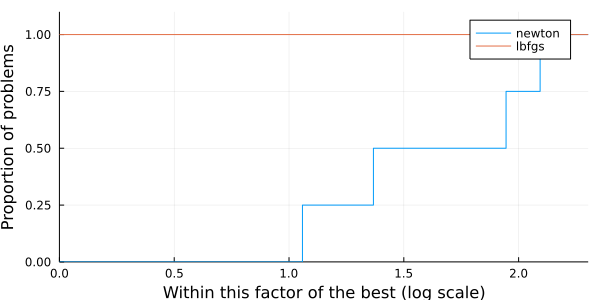
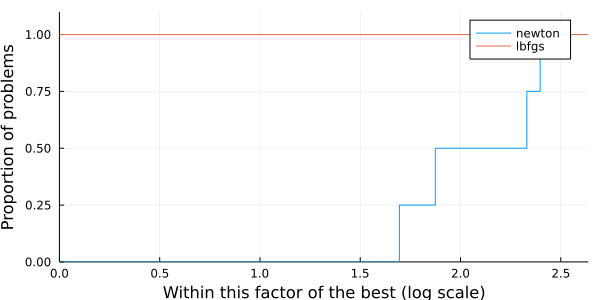
Deploying to gh-pages from  @ 0ae1b8156bb8d80a00eceb829ff18bfe75a243d0 🚀

diff --git a/pages/tutorials/creating-a-jso-compliant-solver/index.html b/pages/tutorials/creating-a-jso-compliant-solver/index.html
@@ -1,4 +1,4 @@
-<!doctype html> <html lang=en > <meta charset=UTF-8 > <meta name=viewport  content="width=device-width, initial-scale=1"> <link rel=stylesheet  href="/libs/katex/katex.min.css"> <link rel=stylesheet  href="/libs/highlight/github.min.css"> <link rel=stylesheet  href="/css/franklin.css"> <link rel=stylesheet  href="/css/poole_hyde.css"> <style> html {font-size: 17px;} .franklin-content {position: relative; padding-left: 8%; padding-right: 5%; line-height: 1.35em;} @media (min-width: 940px) { .franklin-content {width: 100%; margin-left: auto; margin-right: auto;} } @media (max-width: 768px) { .franklin-content {padding-left: 6%; padding-right: 6%;} } </style> <link rel=icon  href="/assets/favicon.png"> <title>Creating a JSO-compliant solver</title> <link rel=stylesheet  href="/css/custom.css"> <link rel=preconnect  href="https://fonts.gstatic.com"> <link href="https://fonts.googleapis.com/css2?family=Nunito&family=Montserrat&display=swap" rel=stylesheet > <script src="/libs/highlight/highlight.pack.js"></script> <!--TODO: Add EVERYTHING-->> <script> hljs.getLanguage('julia').keywords.custom = 'obj grad hess AbstractNLPModel'; </script>" <div class=sidebar > <div class="container sidebar-sticky"> <div class=sidebar-about > <img src="/assets/jso.png"> <h1><a href="/">JSO</a></h1> <p class=lead >Julia Smooth Optimizers.</p> </div> <nav class=sidebar-nav > <a class="sidebar-nav-item " href="/">Home</a> <a class="sidebar-nav-item " href="/pages/tutorials/list/">Tutorials</a> <a class="sidebar-nav-item " href="/pages/ecosystem/list/">Ecosystems</a> <a class="sidebar-nav-item " href="/pages/how-to/list/">How-to guide</a> <a class="sidebar-nav-item " href="/pages/reference/list/">Reference guides</a> </nav> <p>&copy; Abel Soares Siqueira.</p> </div> </div> <div class="content container"> <div class=franklin-content ><h1 id=title ><a href="#title" class=header-anchor >Creating a JSO-compliant solver</a></h1> <div class=author >by Abel S. Siqueira and João Okimoto</div> <img class=badge  src="https://img.shields.io/badge/ADNLPModels-0.3.0-hsl(45,100%25,30%25)?style=flat-square&labelColor=hsl(45,30%25,30%25)"> <img class=badge  src="https://img.shields.io/badge/JSOSolvers-0.7.2-hsl(90,100%25,30%25)?style=flat-square&labelColor=hsl(90,30%25,30%25)"> <img class=badge  src="https://img.shields.io/badge/LinearAlgebra-stdlib-666?style=flat-square&labelColor=444"> <img class=badge  src="https://img.shields.io/badge/NLPModels-0.17.2-hsl(180,100%25,30%25)?style=flat-square&labelColor=hsl(180,30%25,30%25)"> <img class=badge  src="https://img.shields.io/badge/Plots-1.23.6-666?style=flat-square&labelColor=444"> <img class=badge  src="https://img.shields.io/badge/SolverBenchmark-0.4.7-hsl(315,100%25,30%25)?style=flat-square&labelColor=hsl(315,30%25,30%25)"> <img class=badge  src="https://img.shields.io/badge/SolverTools-0.7.0-hsl(360,100%25,30%25)?style=flat-square&labelColor=hsl(360,30%25,30%25)"> <p>In this tutorial you will learn what is a JSO-compliant solver, how to create one, and how to benchmark it against some other solver.</p> <div class=franklin-toc ><ol><li><a href="#what_is_a_jso-compliant_solver">What is a JSO-compliant solver</a><li><a href="#method_description">Method description</a><li><a href="#defining_a_test_problem_with_adnlpmodels_and_accessing_its_functions_with_the_nlpmodels_api">Defining a test problem with ADNLPModels and accessing its functions with the NLPModels API</a><li><a href="#improving_the_solver">Improving the solver</a><li><a href="#benchmarking">Benchmarking</a><li><a href="#performance_profiles">Performance profiles</a><li><a href="#improving_the_solver_more">Improving the solver more</a></ol></div> <h2 id=what_is_a_jso-compliant_solver ><a href="#what_is_a_jso-compliant_solver" class=header-anchor >What is a JSO-compliant solver</a></h2> <p>A JSO-compliant solver is a solver whose</p> <ul> <li><p>input is a model implementing the NLPModels API; and</p> <li><p>output is a specific struct from the package SolverCore.</p> </ul> <p>That means that you can devise your solver based on a single API that will work with many different problems. Furthermore, since the output type is known, we can provide tools to compare different solvers.</p> <p>To illustrate the procedure for creating a solver with the JSO API, we&#39;ll implement a Line-Search Modified Newton solver for the problem</p> \[ \min_x \ f(x) \] <h2 id=method_description ><a href="#method_description" class=header-anchor >Method description</a></h2> <p>The method consists of following the direction \(d_k\) that solves</p> \[ \nabla^2 f(x_k) d_k = -\nabla f(x_k) \] <p>This is only reasonable if the system can be solved and \(d_k\) is a descent direction. A sufficient condition for that is that \(\nabla^2 f(x_k)\) is positive definite, which is equivalent to saying that it has a Cholesky decomposition.</p> <p>Since this will not be true in general, the modified Newton method consists of computing \(\rho_k \geq 0\) such that \(\nabla^2 f(x_k) + \rho_k I\) is positive definite. One way to find such a \(\rho_k\) is given below</p> <pre><code class=language-julia >1. Start with ρ from the last iteration
+<!doctype html> <html lang=en > <meta charset=UTF-8 > <meta name=viewport  content="width=device-width, initial-scale=1"> <link rel=stylesheet  href="/libs/katex/katex.min.css"> <link rel=stylesheet  href="/libs/highlight/github.min.css"> <link rel=stylesheet  href="/css/franklin.css"> <link rel=stylesheet  href="/css/poole_hyde.css"> <style> html {font-size: 17px;} .franklin-content {position: relative; padding-left: 8%; padding-right: 5%; line-height: 1.35em;} @media (min-width: 940px) { .franklin-content {width: 100%; margin-left: auto; margin-right: auto;} } @media (max-width: 768px) { .franklin-content {padding-left: 6%; padding-right: 6%;} } </style> <link rel=icon  href="/assets/favicon.png"> <title>Creating a JSO-compliant solver</title> <link rel=stylesheet  href="/css/custom.css"> <link rel=preconnect  href="https://fonts.gstatic.com"> <link href="https://fonts.googleapis.com/css2?family=Nunito&family=Montserrat&display=swap" rel=stylesheet > <script src="/libs/highlight/highlight.pack.js"></script> <!--TODO: Add EVERYTHING-->> <script> hljs.getLanguage('julia').keywords.custom = 'obj grad hess AbstractNLPModel'; </script>" <div class=sidebar > <div class="container sidebar-sticky"> <div class=sidebar-about > <img src="/assets/jso.png"> <h1><a href="/">JSO</a></h1> <p class=lead >Julia Smooth Optimizers.</p> </div> <nav class=sidebar-nav > <a class="sidebar-nav-item " href="/">Home</a> <a class="sidebar-nav-item " href="/pages/tutorials/list/">Tutorials</a> <a class="sidebar-nav-item " href="/pages/ecosystem/list/">Ecosystems</a> <a class="sidebar-nav-item " href="/pages/how-to/list/">How-to guide</a> <a class="sidebar-nav-item " href="/pages/reference/list/">Reference guides</a> </nav> <p>&copy; Abel Soares Siqueira.</p> </div> </div> <div class="content container"> <div class=franklin-content ><h1 id=title ><a href="#title" class=header-anchor >Creating a JSO-compliant solver</a></h1> <div class=author >by Abel S. Siqueira and João Okimoto</div> <img class=badge  src="https://img.shields.io/badge/ADNLPModels-0.3.0-hsl(40,100%25,30%25)?style=flat-square&labelColor=hsl(40,30%25,30%25)"> <img class=badge  src="https://img.shields.io/badge/JSOSolvers-0.7.2-hsl(80,100%25,30%25)?style=flat-square&labelColor=hsl(80,30%25,30%25)"> <img class=badge  src="https://img.shields.io/badge/LinearAlgebra-stdlib-666?style=flat-square&labelColor=444"> <img class=badge  src="https://img.shields.io/badge/NLPModels-0.17.2-hsl(160,100%25,30%25)?style=flat-square&labelColor=hsl(160,30%25,30%25)"> <img class=badge  src="https://img.shields.io/badge/Plots-1.23.6-666?style=flat-square&labelColor=444"> <img class=badge  src="https://img.shields.io/badge/SolverBenchmark-0.4.7-hsl(280,100%25,30%25)?style=flat-square&labelColor=hsl(280,30%25,30%25)"> <img class=badge  src="https://img.shields.io/badge/SolverCore-0.2.1-hsl(320,100%25,30%25)?style=flat-square&labelColor=hsl(320,30%25,30%25)"> <p>In this tutorial you will learn what is a JSO-compliant solver, how to create one, and how to benchmark it against some other solver.</p> <div class=franklin-toc ><ol><li><a href="#what_is_a_jso-compliant_solver">What is a JSO-compliant solver</a><li><a href="#method_description">Method description</a><li><a href="#defining_a_test_problem_with_adnlpmodels_and_accessing_its_functions_with_the_nlpmodels_api">Defining a test problem with ADNLPModels and accessing its functions with the NLPModels API</a><li><a href="#improving_the_solver">Improving the solver</a><li><a href="#benchmarking">Benchmarking</a><li><a href="#performance_profiles">Performance profiles</a><li><a href="#improving_the_solver_more">Improving the solver more</a></ol></div> <h2 id=what_is_a_jso-compliant_solver ><a href="#what_is_a_jso-compliant_solver" class=header-anchor >What is a JSO-compliant solver</a></h2> <p>A JSO-compliant solver is a solver whose</p> <ul> <li><p>input is a model implementing the NLPModels API; and</p> <li><p>output is a specific struct from the package SolverCore.</p> </ul> <p>That means that you can devise your solver based on a single API that will work with many different problems. Furthermore, since the output type is known, we can provide tools to compare different solvers.</p> <p>To illustrate the procedure for creating a solver with the JSO API, we&#39;ll implement a Line-Search Modified Newton solver for the problem</p> \[ \min_x \ f(x) \] <h2 id=method_description ><a href="#method_description" class=header-anchor >Method description</a></h2> <p>The method consists of following the direction \(d_k\) that solves</p> \[ \nabla^2 f(x_k) d_k = -\nabla f(x_k) \] <p>This is only reasonable if the system can be solved and \(d_k\) is a descent direction. A sufficient condition for that is that \(\nabla^2 f(x_k)\) is positive definite, which is equivalent to saying that it has a Cholesky decomposition.</p> <p>Since this will not be true in general, the modified Newton method consists of computing \(\rho_k \geq 0\) such that \(\nabla^2 f(x_k) + \rho_k I\) is positive definite. One way to find such a \(\rho_k\) is given below</p> <pre><code class=language-julia >1. Start with ρ from the last iteration
 2. Try to compute the Cholesky factor of ∇²f&#40;x&#41; &#43; ρI
 3. If not successful, increase ρ to either 1e-8 or 10ρ, whichever is largest, and return to step 2
 4. Otherwise, continue the algorithm</code></pre> <p>Next, for the line-search part, we use backtracking and ask that the Armijo condition be satisfied, that is find the smallest \(p \in \mathbb{N}\) such that \(t = σ^p\) satisfies</p> \[ f(x_k + td_k) < f(x_k) + \alpha t g_k^T d_k, \] <p>for \(\alpha \in (0,1)\), called the Armijo parameter.</p> <h2 id=defining_a_test_problem_with_adnlpmodels_and_accessing_its_functions_with_the_nlpmodels_api ><a href="#defining_a_test_problem_with_adnlpmodels_and_accessing_its_functions_with_the_nlpmodels_api" class=header-anchor >Defining a test problem with ADNLPModels and accessing its functions with the NLPModels API</a></h2> <p>Let&#39;s define a test problem to verify that our method is working, and let&#39;s use a classic one: Rosenbrock&#39;s function<sup id="fnref:1"><a href="#fndef:1" class=fnref >[1]</a></sup></p> \[ \min_x \ (x_1 - 1)^2 + 4 (x_2 - x_1^2)^2, \] <p>starting from point &#91;-1.2; 1.0&#93;.</p> <pre><code class=language-julia >using Plots
@@ -244,7 +244,7 @@ print&#40;output&#41;</code></pre><pre><code class="plaintext code-output">Gener
   dual feasibility: 4.018046284781729e-9
   solution: [0.9999999986742657  0.9999999970013461]
   iterations: 18
-  elapsed time: 0.9098260402679443
+  elapsed time: 0.7611420154571533
 </code></pre>
 <p>And to compare both solvers, we need a collection of problems. Let&#39;s just create one manually for now.</p>
 <pre><code class=language-julia >problems &#61; &#91;
@@ -262,18 +262,18 @@ stats &#61; bmark_solvers&#40;solvers, problems&#41;</code></pre><pre><code clas
  Row │ id     name     nvar   ncon   nequ   status       objective     elapsed_time  iter   dual_feas  primal_feas  neval_obj  neval_grad  neval_cons  neval_jcon  neval_jgrad  neval_jac  neval_jprod  neval_jtprod  neval_hess  neval_hprod  neval_jhess  neval_jhprod  neval_residual  neval_jac_residual  neval_jprod_residual  neval_jtprod_residual  neval_hess_residual  neval_jhess_residual  neval_hprod_residual  extrainfo
      │ Int64  String   Int64  Int64  Int64  Symbol       Float64       Float64       Int64  Float64    Float64      Int64      Int64       Int64       Int64       Int64        Int64      Int64        Int64         Int64       Int64        Int64        Int64         Int64           Int64               Int64                 Int64                  Int64                Int64                 Int64                 String
 ─────┼────────────────────────────────────────────────────────────────────────────────────────────────────────────────────────────────────────────────────────────────────────────────────────────────────────────────────────────────────────────────────────────────────────────────────────────────────────────────────────────────────────────────────────────────────────────────────────────────────────────────────────────────
-   1 │     1  Generic      2      0      0  first_order   2.46519e-31      0.727858      1        Inf          0.0          3           4           0           0            0          0            0             0           1            0            0             0               0                   0                     0                      0                    0                     0                     0
-   2 │     2  Generic      2      0      0  first_order   3.74398e-21      0.812437     21        Inf          0.0         50          64           0           0            0          0            0             0          21            0            0             0               0                   0                     0                      0                    0                     0                     0
-   3 │     3  Generic      2      0      0  max_iter     -8.36356          0.712777    100        Inf          0.0        201         301           0           0            0          0            0             0         100            0            0             0               0                   0                     0                      0                    0                     0                     0
-   4 │     4  Generic      2      0      0  first_order   1.43195          0.677697      5        Inf          0.0         12          16           0           0            0          0            0             0           5            0            0             0               0                   0                     0                      0                    0                     0                     0
+   1 │     1  Generic      2      0      0  first_order   2.46519e-31      0.615157      1        Inf          0.0          3           4           0           0            0          0            0             0           1            0            0             0               0                   0                     0                      0                    0                     0                     0
+   2 │     2  Generic      2      0      0  first_order   3.74398e-21      0.722685     21        Inf          0.0         50          64           0           0            0          0            0             0          21            0            0             0               0                   0                     0                      0                    0                     0                     0
+   3 │     3  Generic      2      0      0  max_iter     -8.36356          0.573144    100        Inf          0.0        201         301           0           0            0          0            0             0         100            0            0             0               0                   0                     0                      0                    0                     0                     0
+   4 │     4  Generic      2      0      0  first_order   1.43195          0.615947      5        Inf          0.0         12          16           0           0            0          0            0             0           5            0            0             0               0                   0                     0                      0                    0                     0                     0
   :lbfgs => 4×31 DataFrame
  Row │ id     name     nvar   ncon   nequ   status       objective     elapsed_time  iter   dual_feas   primal_feas  neval_obj  neval_grad  neval_cons  neval_jcon  neval_jgrad  neval_jac  neval_jprod  neval_jtprod  neval_hess  neval_hprod  neval_jhess  neval_jhprod  neval_residual  neval_jac_residual  neval_jprod_residual  neval_jtprod_residual  neval_hess_residual  neval_jhess_residual  neval_hprod_residual  extrainfo
      │ Int64  String   Int64  Int64  Int64  Symbol       Float64       Float64       Int64  Float64     Float64      Int64      Int64       Int64       Int64       Int64        Int64      Int64        Int64         Int64       Int64        Int64        Int64         Int64           Int64               Int64                 Int64                  Int64                Int64                 Int64                 String
 ─────┼─────────────────────────────────────────────────────────────────────────────────────────────────────────────────────────────────────────────────────────────────────────────────────────────────────────────────────────────────────────────────────────────────────────────────────────────────────────────────────────────────────────────────────────────────────────────────────────────────────────────────────────────────
-   1 │     1  Generic      2      0      0  first_order   2.26824e-16   4.91142e-5       8  5.28297e-8          0.0         11          10           0           0            0          0            0             0           0            0            0             0               0                   0                     0                      0                    0                     0                     0
-   2 │     2  Generic      2      0      0  first_order   1.44561e-17   0.000159025     39  8.41132e-8          0.0         52          45           0           0            0          0            0             0           0            0            0             0               0                   0                     0                      0                    0                     0                     0
-   3 │     3  Generic      2      0      0  first_order  -8.37235       4.1008e-5       12  1.60958e-9          0.0         17          15           0           0            0          0            0             0           0            0            0             0               0                   0                     0                      0                    0                     0                     0
-   4 │     4  Generic      2      0      0  first_order   1.43195       3.48091e-5       9  4.18646e-9          0.0         11          11           0           0            0          0            0             0           0            0            0             0               0                   0                     0                      0                    0                     0                     0</code></pre>
+   1 │     1  Generic      2      0      0  first_order   2.26824e-16    3.98159e-5      8  5.28297e-8          0.0         11          10           0           0            0          0            0             0           0            0            0             0               0                   0                     0                      0                    0                     0                     0
+   2 │     2  Generic      2      0      0  first_order   1.44561e-17    7.70092e-5     39  8.41132e-8          0.0         52          45           0           0            0          0            0             0           0            0            0             0               0                   0                     0                      0                    0                     0                     0
+   3 │     3  Generic      2      0      0  first_order  -8.37235        3.09944e-5     12  1.60958e-9          0.0         17          15           0           0            0          0            0             0           0            0            0             0               0                   0                     0                      0                    0                     0                     0
+   4 │     4  Generic      2      0      0  first_order   1.43195        2.90871e-5      9  4.18646e-9          0.0         11          11           0           0            0          0            0             0           0            0            0             0               0                   0                     0                      0                    0                     0                     0</code></pre>
 <p>The results is a Dictionary of Symbols to DataFrame tables.</p>
 <pre><code class=language-julia >@show typeof&#40;stats&#41;
 @show keys&#40;stats&#41;</code></pre><pre><code class="plaintext code-output">typeof(stats) = Dict{Symbol, DataFrames.DataFrame}
@@ -284,10 +284,10 @@ keys(stats) = [:newton, :lbfgs]
 pretty_stats&#40;stats&#91;:newton&#93;&#91;&#33;, cols&#93;&#41;</code></pre><pre><code class="plaintext code-output">┌─────────┬─────────────┬───────────┬──────────────┬────────┐
 │    name │      status │ objective │ elapsed_time │   iter │
 ├─────────┼─────────────┼───────────┼──────────────┼────────┤
-│ Generic │ first_order │  2.47e-31 │     7.28e-01 │      1 │
-│ Generic │ first_order │  3.74e-21 │     8.12e-01 │     21 │
-│ Generic │    max_iter │ -8.36e+00 │     7.13e-01 │    100 │
-│ Generic │ first_order │  1.43e+00 │     6.78e-01 │      5 │
+│ Generic │ first_order │  2.47e-31 │     6.15e-01 │      1 │
+│ Generic │ first_order │  3.74e-21 │     7.23e-01 │     21 │
+│ Generic │    max_iter │ -8.36e+00 │     5.73e-01 │    100 │
+│ Generic │ first_order │  1.43e+00 │     6.16e-01 │      5 │
 └─────────┴─────────────┴───────────┴──────────────┴────────┘
 </code></pre>
 <p>We can also create a similar table in .tex format, using something like</p>

diff --git a/pages/tutorials/introduction-to-linear-operators/index.html b/pages/tutorials/introduction-to-linear-operators/index.html
@@ -1,4 +1,4 @@
-<!doctype html> <html lang=en > <meta charset=UTF-8 > <meta name=viewport  content="width=device-width, initial-scale=1"> <link rel=stylesheet  href="/libs/highlight/github.min.css"> <link rel=stylesheet  href="/css/franklin.css"> <link rel=stylesheet  href="/css/poole_hyde.css"> <style> html {font-size: 17px;} .franklin-content {position: relative; padding-left: 8%; padding-right: 5%; line-height: 1.35em;} @media (min-width: 940px) { .franklin-content {width: 100%; margin-left: auto; margin-right: auto;} } @media (max-width: 768px) { .franklin-content {padding-left: 6%; padding-right: 6%;} } </style> <link rel=icon  href="/assets/favicon.png"> <title>Introduction to Linear Operators</title> <link rel=stylesheet  href="/css/custom.css"> <link rel=preconnect  href="https://fonts.gstatic.com"> <link href="https://fonts.googleapis.com/css2?family=Nunito&family=Montserrat&display=swap" rel=stylesheet > <script src="/libs/highlight/highlight.pack.js"></script> <!--TODO: Add EVERYTHING-->> <script> hljs.getLanguage('julia').keywords.custom = 'obj grad hess AbstractNLPModel'; </script>" <div class=sidebar > <div class="container sidebar-sticky"> <div class=sidebar-about > <img src="/assets/jso.png"> <h1><a href="/">JSO</a></h1> <p class=lead >Julia Smooth Optimizers.</p> </div> <nav class=sidebar-nav > <a class="sidebar-nav-item " href="/">Home</a> <a class="sidebar-nav-item " href="/pages/tutorials/list/">Tutorials</a> <a class="sidebar-nav-item " href="/pages/ecosystem/list/">Ecosystems</a> <a class="sidebar-nav-item " href="/pages/how-to/list/">How-to guide</a> <a class="sidebar-nav-item " href="/pages/reference/list/">Reference guides</a> </nav> <p>&copy; Abel Soares Siqueira.</p> </div> </div> <div class="content container"> <div class=franklin-content ><h1 id=title ><a href="#title" class=header-anchor >Introduction to Linear Operators</a></h1> <div class=author >by Geoffroy Leconte and Dominique Orban</div> <img class=badge  src="https://img.shields.io/badge/LinearOperators-2.2.1-hsl(135,100%25,30%25)?style=flat-square&labelColor=hsl(135,30%25,30%25)"> <img class=badge  src="https://img.shields.io/badge/FFTW-1.4.5-666?style=flat-square&labelColor=444"> <p>LinearOperators.jl is a package for matrix-like operators. Linear operators are defined by how they act on a vector, which is useful in a variety of situations where you don&#39;t want to materialize the matrix.</p> <div class=franklin-toc ><ol><li><a href="#using_matrices">Using matrices</a><li><a href="#inverse">Inverse</a><li><a href="#mul">mul&#33;</a><li><a href="#using_functions">Using functions</a><li><a href="#limited_memory_bfgs_and_sr1">Limited memory BFGS and SR1</a><li><a href="#restriction_extension_and_slices">Restriction, extension and slices</a></ol></div> <p>This section of the documentation describes a few uses of LinearOperators.</p> <h2 id=using_matrices ><a href="#using_matrices" class=header-anchor >Using matrices</a></h2> <p>Operators may be defined from matrices and combined using the usual operations, but the result is deferred until the operator is applied.</p> <pre><code class=language-julia >using LinearOperators, SparseArrays
+<!doctype html> <html lang=en > <meta charset=UTF-8 > <meta name=viewport  content="width=device-width, initial-scale=1"> <link rel=stylesheet  href="/libs/highlight/github.min.css"> <link rel=stylesheet  href="/css/franklin.css"> <link rel=stylesheet  href="/css/poole_hyde.css"> <style> html {font-size: 17px;} .franklin-content {position: relative; padding-left: 8%; padding-right: 5%; line-height: 1.35em;} @media (min-width: 940px) { .franklin-content {width: 100%; margin-left: auto; margin-right: auto;} } @media (max-width: 768px) { .franklin-content {padding-left: 6%; padding-right: 6%;} } </style> <link rel=icon  href="/assets/favicon.png"> <title>Introduction to Linear Operators</title> <link rel=stylesheet  href="/css/custom.css"> <link rel=preconnect  href="https://fonts.gstatic.com"> <link href="https://fonts.googleapis.com/css2?family=Nunito&family=Montserrat&display=swap" rel=stylesheet > <script src="/libs/highlight/highlight.pack.js"></script> <!--TODO: Add EVERYTHING-->> <script> hljs.getLanguage('julia').keywords.custom = 'obj grad hess AbstractNLPModel'; </script>" <div class=sidebar > <div class="container sidebar-sticky"> <div class=sidebar-about > <img src="/assets/jso.png"> <h1><a href="/">JSO</a></h1> <p class=lead >Julia Smooth Optimizers.</p> </div> <nav class=sidebar-nav > <a class="sidebar-nav-item " href="/">Home</a> <a class="sidebar-nav-item " href="/pages/tutorials/list/">Tutorials</a> <a class="sidebar-nav-item " href="/pages/ecosystem/list/">Ecosystems</a> <a class="sidebar-nav-item " href="/pages/how-to/list/">How-to guide</a> <a class="sidebar-nav-item " href="/pages/reference/list/">Reference guides</a> </nav> <p>&copy; Abel Soares Siqueira.</p> </div> </div> <div class="content container"> <div class=franklin-content ><h1 id=title ><a href="#title" class=header-anchor >Introduction to Linear Operators</a></h1> <div class=author >by Geoffroy Leconte and Dominique Orban</div> <img class=badge  src="https://img.shields.io/badge/LinearOperators-2.2.1-hsl(120,100%25,30%25)?style=flat-square&labelColor=hsl(120,30%25,30%25)"> <img class=badge  src="https://img.shields.io/badge/FFTW-1.4.5-666?style=flat-square&labelColor=444"> <p>LinearOperators.jl is a package for matrix-like operators. Linear operators are defined by how they act on a vector, which is useful in a variety of situations where you don&#39;t want to materialize the matrix.</p> <div class=franklin-toc ><ol><li><a href="#using_matrices">Using matrices</a><li><a href="#inverse">Inverse</a><li><a href="#mul">mul&#33;</a><li><a href="#using_functions">Using functions</a><li><a href="#limited_memory_bfgs_and_sr1">Limited memory BFGS and SR1</a><li><a href="#restriction_extension_and_slices">Restriction, extension and slices</a></ol></div> <p>This section of the documentation describes a few uses of LinearOperators.</p> <h2 id=using_matrices ><a href="#using_matrices" class=header-anchor >Using matrices</a></h2> <p>Operators may be defined from matrices and combined using the usual operations, but the result is deferred until the operator is applied.</p> <pre><code class=language-julia >using LinearOperators, SparseArrays
 A1 &#61; rand&#40;5,7&#41;
 A2 &#61; sprand&#40;7,3,.3&#41;
 op1 &#61; LinearOperator&#40;A1&#41;
@@ -6,16 +6,16 @@ op2 &#61; LinearOperator&#40;A2&#41;
 op &#61; op1 * op2  # Does not form A1 * A2
 x &#61; rand&#40;3&#41;
 y &#61; op * x</code></pre><pre><code class="plaintext code-output">5-element Vector{Float64}:
- 0.871167072599535
- 0.8901484205165
- 1.3910211042223377
- 0.9979144479069595
- 0.9364433168754716</code></pre> <h2 id=inverse ><a href="#inverse" class=header-anchor >Inverse</a></h2> <p>Operators may be defined to represent &#40;approximate&#41; inverses.</p> <pre><code class=language-julia >using LinearAlgebra
+ 1.6793043074031042
+ 1.0898723370142327
+ 1.4050404114827229
+ 1.3301594094328804
+ 1.2813020532213628</code></pre> <h2 id=inverse ><a href="#inverse" class=header-anchor >Inverse</a></h2> <p>Operators may be defined to represent &#40;approximate&#41; inverses.</p> <pre><code class=language-julia >using LinearAlgebra
 A &#61; rand&#40;5,5&#41;
 A &#61; A&#39; * A
 op &#61; opCholesky&#40;A&#41;  # Use, e.g., as a preconditioner
 v &#61; rand&#40;5&#41;
-norm&#40;A \ v - op * v&#41; / norm&#40;v&#41;</code></pre><pre><code class="plaintext code-output">3.2144453942389933e-7</code></pre>
+norm&#40;A \ v - op * v&#41; / norm&#40;v&#41;</code></pre><pre><code class="plaintext code-output">2.0590508886381993e-15</code></pre>
 <p>In this example, the Cholesky factor is computed only once and can be used many times transparently.</p>
 <h2 id=mul ><a href="#mul" class=header-anchor >mul&#33;</a></h2>
 <p>It is often useful to reuse the memory used by the operator. For that reason, we can use <code>mul&#33;</code> on operators as if we were using matrices using preallocated vectors:</p>
@@ -58,18 +58,18 @@ dft &#61; LinearOperator&#40;ComplexF64, 10, 10, false, false,
                      mulifft&#33;&#41;
 x &#61; rand&#40;10&#41;
 y &#61; dft * x
-norm&#40;dft&#39; * y - x&#41;  # DFT is a unitary operator</code></pre><pre><code class="plaintext code-output">1.942890293094024e-16</code></pre>
+norm&#40;dft&#39; * y - x&#41;  # DFT is a unitary operator</code></pre><pre><code class="plaintext code-output">2.118352371637509e-16</code></pre>
 <pre><code class=language-julia >transpose&#40;dft&#41; * y</code></pre><pre><code class="plaintext code-output">10-element Vector{ComplexF64}:
-  0.7972965709338936 - 0.0im
-   0.504382666693366 - 0.0im
-  0.1504179483083505 - 0.0im
-  0.4605288259951375 - 0.0im
-  0.5418965119772459 - 0.0im
-  0.5526237014060765 - 0.0im
-  0.2555388460721247 - 0.0im
- 0.28120911699740053 - 0.0im
- 0.08746599791088089 - 0.0im
-  0.2963318718463641 - 0.0im</code></pre>
+  0.8933418604127361 - 0.0im
+  0.9871118242428795 - 0.0im
+  0.7852010327231251 - 0.0im
+ 0.12464836730203138 - 0.0im
+ 0.07646519486038028 - 0.0im
+  0.6454702686897825 - 0.0im
+  0.7960179418839683 - 0.0im
+ 0.04693355645229687 - 0.0im
+   0.566166915646402 - 0.0im
+  0.6703815407184702 - 0.0im</code></pre>
 <p>Another example:</p>
 <pre><code class=language-julia >function customfunc&#33;&#40;res, v, α, β::T&#41; where T
   if β &#61;&#61; zero&#40;T&#41;
@@ -127,7 +127,7 @@ for i &#61; 1:100
   push&#33;&#40;H, s, y&#41;
   r &#43;&#61; norm&#40;B * H * s - s&#41;
 end
-r</code></pre><pre><code class="plaintext code-output">4.1263680634807505e-13</code></pre>
+r</code></pre><pre><code class="plaintext code-output">3.790802094658292e-13</code></pre>
 <p>There is also a LSR1 operator that behaves similarly to these two.</p>
 <h2 id=restriction_extension_and_slices ><a href="#restriction_extension_and_slices" class=header-anchor >Restriction, extension and slices</a></h2>
 <p>The restriction operator restricts a vector to a set of indices.</p>
@@ -155,24 +155,24 @@ opA &#61; LinearOperator&#40;A&#41;
 I &#61; &#91;1;3;5&#93;
 J &#61; 2:4
 A&#91;I,J&#93; * ones&#40;3&#41;</code></pre><pre><code class="plaintext code-output">3-element Vector{Float64}:
- 1.8658857182425148
- 1.2857585934005564
- 1.7589158199051194</code></pre>
+ 1.5531438968793496
+ 2.298644753910843
+ 2.083551713231354</code></pre>
 <pre><code class=language-julia >opRestriction&#40;I, 5&#41; * opA * opExtension&#40;J, 5&#41; * ones&#40;3&#41;</code></pre><pre><code class="plaintext code-output">3-element Vector{Float64}:
- 1.8658857182425148
- 1.2857585934005564
- 1.7589158199051194</code></pre>
+ 1.5531438968793496
+ 2.298644753910843
+ 2.083551713231354</code></pre>
 <p>A main difference with matrices, is that slices <strong>do not</strong> return vectors nor numbers.</p>
 <pre><code class=language-julia >opA&#91;1,:&#93; * ones&#40;5&#41;</code></pre><pre><code class="plaintext code-output">1-element Vector{Float64}:
- 3.5626984409793456</code></pre>
+ 1.8659463710488944</code></pre>
 <pre><code class=language-julia >opA&#91;:,1&#93; * ones&#40;1&#41;</code></pre><pre><code class="plaintext code-output">5-element Vector{Float64}:
- 0.7909200865583672
- 0.7879609660684586
- 0.8651120571991051
- 0.11637497406748443
- 0.7098589753460351</code></pre>
+ 0.16691906457025496
+ 0.008864555958078668
+ 0.7903826406968408
+ 0.32111053721568683
+ 0.6985505553402169</code></pre>
 <pre><code class=language-julia >opA&#91;1,1&#93; * ones&#40;1&#41;</code></pre><pre><code class="plaintext code-output">1-element Vector{Float64}:
- 0.7909200865583672</code></pre>
+ 0.16691906457025496</code></pre>
 
 <div class=page-foot >
   <div class=copyright >

diff --git a/pages/how-to/solve-an-optimization-problem-with-ipopt/index.html b/pages/how-to/solve-an-optimization-problem-with-ipopt/index.html
@@ -1,4 +1,4 @@
-<!doctype html> <html lang=en > <meta charset=UTF-8 > <meta name=viewport  content="width=device-width, initial-scale=1"> <link rel=stylesheet  href="/libs/katex/katex.min.css"> <link rel=stylesheet  href="/libs/highlight/github.min.css"> <link rel=stylesheet  href="/css/franklin.css"> <link rel=stylesheet  href="/css/poole_hyde.css"> <style> html {font-size: 17px;} .franklin-content {position: relative; padding-left: 8%; padding-right: 5%; line-height: 1.35em;} @media (min-width: 940px) { .franklin-content {width: 100%; margin-left: auto; margin-right: auto;} } @media (max-width: 768px) { .franklin-content {padding-left: 6%; padding-right: 6%;} } </style> <link rel=icon  href="/assets/favicon.png"> <title>How to solve a small optimization problem with Ipopt + NLPModels</title> <link rel=stylesheet  href="/css/custom.css"> <link rel=preconnect  href="https://fonts.gstatic.com"> <link href="https://fonts.googleapis.com/css2?family=Nunito&family=Montserrat&display=swap" rel=stylesheet > <script src="/libs/highlight/highlight.pack.js"></script> <!--TODO: Add EVERYTHING-->> <script> hljs.getLanguage('julia').keywords.custom = 'obj grad hess AbstractNLPModel'; </script>" <div class=sidebar > <div class="container sidebar-sticky"> <div class=sidebar-about > <img src="/assets/jso.png"> <h1><a href="/">JSO</a></h1> <p class=lead >Julia Smooth Optimizers.</p> </div> <nav class=sidebar-nav > <a class="sidebar-nav-item " href="/">Home</a> <a class="sidebar-nav-item " href="/pages/tutorials/list/">Tutorials</a> <a class="sidebar-nav-item " href="/pages/ecosystem/list/">Ecosystems</a> <a class="sidebar-nav-item " href="/pages/how-to/list/">How-to guide</a> <a class="sidebar-nav-item " href="/pages/reference/list/">Reference guides</a> </nav> <p>&copy; Abel Soares Siqueira.</p> </div> </div> <div class="content container"> <div class=franklin-content ><h1 id=title ><a href="#title" class=header-anchor >How to solve a small optimization problem with Ipopt + NLPModels</a></h1> <div class=author >by Abel S. Siqueira</div> <img class=badge  src="https://img.shields.io/badge/ADNLPModels-0.3.0-hsl(45,100%25,30%25)?style=flat-square&labelColor=hsl(45,30%25,30%25)"> <img class=badge  src="https://img.shields.io/badge/NLPModelsIpopt-0.7.2-hsl(225,100%25,30%25)?style=flat-square&labelColor=hsl(225,30%25,30%25)"> <img class=badge  src="https://img.shields.io/badge/NLPModelsJuMP-0.8.3-hsl(270,100%25,30%25)?style=flat-square&labelColor=hsl(270,30%25,30%25)"> <p>To solve an optimization problem with Ipopt, the first thing to do is define your problem. In this example, let&#39;s assume we want to solve the following problem:</p> \[\begin{aligned} \text{min}_x \quad & (x_1 - 1)^2 + 4 (x_2 - x_1)^2 \\ \text{s.to} \quad & x_1^2 + x_2^2 \leq 1 \\ & x_1 \leq 0.5 \\ & 0.25 \leq x_2 \leq 0.75 \end{aligned}\] <p>Since our problem is simple, ADNLPModels is a perfect choice. It defines an model that uses automatic differentiation. It is just a matter of passing your functions and arrays to the constructor <code>ADNLPModel</code>.</p> <pre><code class=language-julia >using ADNLPModels
+<!doctype html> <html lang=en > <meta charset=UTF-8 > <meta name=viewport  content="width=device-width, initial-scale=1"> <link rel=stylesheet  href="/libs/katex/katex.min.css"> <link rel=stylesheet  href="/libs/highlight/github.min.css"> <link rel=stylesheet  href="/css/franklin.css"> <link rel=stylesheet  href="/css/poole_hyde.css"> <style> html {font-size: 17px;} .franklin-content {position: relative; padding-left: 8%; padding-right: 5%; line-height: 1.35em;} @media (min-width: 940px) { .franklin-content {width: 100%; margin-left: auto; margin-right: auto;} } @media (max-width: 768px) { .franklin-content {padding-left: 6%; padding-right: 6%;} } </style> <link rel=icon  href="/assets/favicon.png"> <title>How to solve a small optimization problem with Ipopt + NLPModels</title> <link rel=stylesheet  href="/css/custom.css"> <link rel=preconnect  href="https://fonts.gstatic.com"> <link href="https://fonts.googleapis.com/css2?family=Nunito&family=Montserrat&display=swap" rel=stylesheet > <script src="/libs/highlight/highlight.pack.js"></script> <!--TODO: Add EVERYTHING-->> <script> hljs.getLanguage('julia').keywords.custom = 'obj grad hess AbstractNLPModel'; </script>" <div class=sidebar > <div class="container sidebar-sticky"> <div class=sidebar-about > <img src="/assets/jso.png"> <h1><a href="/">JSO</a></h1> <p class=lead >Julia Smooth Optimizers.</p> </div> <nav class=sidebar-nav > <a class="sidebar-nav-item " href="/">Home</a> <a class="sidebar-nav-item " href="/pages/tutorials/list/">Tutorials</a> <a class="sidebar-nav-item " href="/pages/ecosystem/list/">Ecosystems</a> <a class="sidebar-nav-item " href="/pages/how-to/list/">How-to guide</a> <a class="sidebar-nav-item " href="/pages/reference/list/">Reference guides</a> </nav> <p>&copy; Abel Soares Siqueira.</p> </div> </div> <div class="content container"> <div class=franklin-content ><h1 id=title ><a href="#title" class=header-anchor >How to solve a small optimization problem with Ipopt + NLPModels</a></h1> <div class=author >by Abel S. Siqueira</div> <img class=badge  src="https://img.shields.io/badge/ADNLPModels-0.3.0-hsl(40,100%25,30%25)?style=flat-square&labelColor=hsl(40,30%25,30%25)"> <img class=badge  src="https://img.shields.io/badge/NLPModelsIpopt-0.7.2-hsl(200,100%25,30%25)?style=flat-square&labelColor=hsl(200,30%25,30%25)"> <img class=badge  src="https://img.shields.io/badge/NLPModelsJuMP-0.8.3-hsl(240,100%25,30%25)?style=flat-square&labelColor=hsl(240,30%25,30%25)"> <p>To solve an optimization problem with Ipopt, the first thing to do is define your problem. In this example, let&#39;s assume we want to solve the following problem:</p> \[\begin{aligned} \text{min}_x \quad & (x_1 - 1)^2 + 4 (x_2 - x_1)^2 \\ \text{s.to} \quad & x_1^2 + x_2^2 \leq 1 \\ & x_1 \leq 0.5 \\ & 0.25 \leq x_2 \leq 0.75 \end{aligned}\] <p>Since our problem is simple, ADNLPModels is a perfect choice. It defines an model that uses automatic differentiation. It is just a matter of passing your functions and arrays to the constructor <code>ADNLPModel</code>.</p> <pre><code class=language-julia >using ADNLPModels
 
 nlp &#61; ADNLPModel&#40;
   x -&gt; &#40;x&#91;1&#93; - 1&#41;^2 &#43; 4 * &#40;x&#91;2&#93; - x&#91;1&#93;^2&#41;, # f&#40;x&#41;
@@ -79,8 +79,8 @@ Number of inequality constraint evaluations          = 8
 Number of equality constraint Jacobian evaluations   = 0
 Number of inequality constraint Jacobian evaluations = 8
 Number of Lagrangian Hessian evaluations             = 7
-Total CPU secs in IPOPT (w/o function evaluations)   =      4.386
-Total CPU secs in NLP function evaluations           =      1.730
+Total CPU secs in IPOPT (w/o function evaluations)   =      3.652
+Total CPU secs in NLP function evaluations           =      1.450
 
 EXIT: Optimal Solution Found.
 "Execution stats: first-order stationary"</code></pre> <p>To remove the output, use print_level</p> <pre><code class=language-julia >output &#61; ipopt&#40;nlp, print_level&#61;0&#41;</code></pre><pre><code class="plaintext code-output">"Execution stats: first-order stationary"</code></pre>
@@ -95,9 +95,9 @@ EXIT: Optimal Solution Found.
   multipliers_L: [0.0  4.000000006828642]
   multipliers_U: [5.000000053347668  5.0084053323090786e-9]
   iterations: 7
-  elapsed time: 0.005
+  elapsed time: 0.004
   solver specific:
-    real_time: 0.006644010543823242
+    real_time: 0.00623321533203125
     internal_msg: :Solve_Succeeded
 </code></pre>
 <pre><code class=language-julia >x &#61; output.solution

diff --git a/tag/solvercore/index.html b/tag/solvercore/index.html
@@ -1,0 +1,1 @@
+<!doctype html> <html lang=en > <meta charset=UTF-8 > <meta name=viewport  content="width=device-width, initial-scale=1"> <link rel=stylesheet  href="/css/franklin.css"> <link rel=stylesheet  href="/css/poole_hyde.css"> <style> html {font-size: 17px;} .franklin-content {position: relative; padding-left: 8%; padding-right: 5%; line-height: 1.35em;} @media (min-width: 940px) { .franklin-content {width: 100%; margin-left: auto; margin-right: auto;} } @media (max-width: 768px) { .franklin-content {padding-left: 6%; padding-right: 6%;} } </style> <link rel=icon  href="/assets/favicon.png"> <title>Tag: solvercore</title> <div class=sidebar > <div class="container sidebar-sticky"> <div class=sidebar-about > <img src="/assets/jso.png"> <h1><a href="/">JSO</a></h1> <p class=lead >Julia Smooth Optimizers.</p> </div> <nav class=sidebar-nav > <a class="sidebar-nav-item " href="/">Home</a> <a class="sidebar-nav-item " href="/pages/tutorials/list/">Tutorials</a> <a class="sidebar-nav-item " href="/pages/ecosystem/list/">Ecosystems</a> <a class="sidebar-nav-item " href="/pages/how-to/list/">How-to guide</a> <a class="sidebar-nav-item " href="/pages/reference/list/">Reference guides</a> </nav> <p>&copy; Abel Soares Siqueira.</p> </div> </div> <div class="content container"> <div class=""> <h1>Tag: solvercore</h1> <ul><li><a href="/pages/tutorials/creating-a-jso-compliant-solver/">Creating a JSO-compliant solver</a></ul> <div class=page-foot > <div class=copyright > &copy; Abel Soares Siqueira. Website built with <a href="https://github.com/tlienart/Franklin.jl">Franklin.jl</a> and the <a href="https://julialang.org">Julia programming language</a>. </div> </div> </div>
